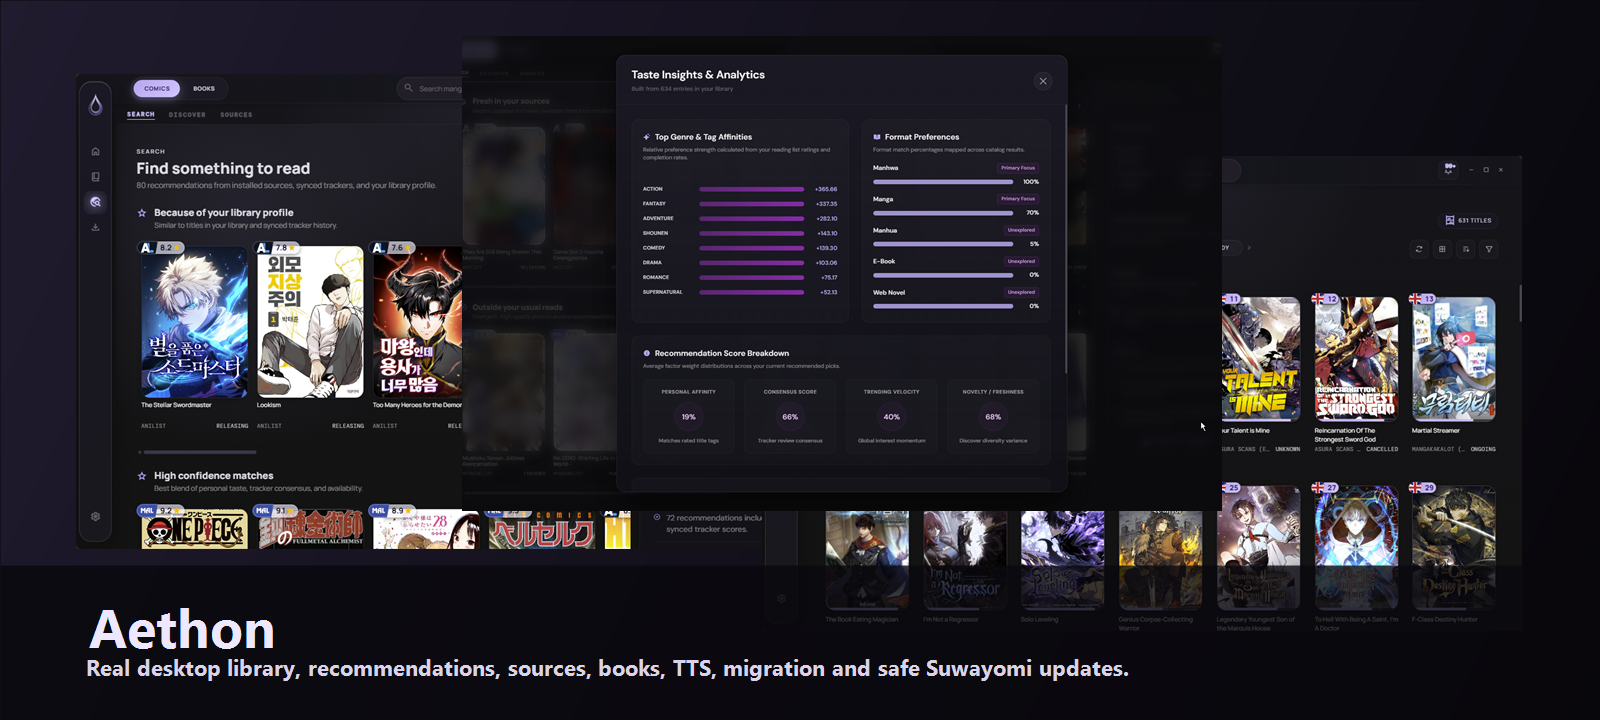
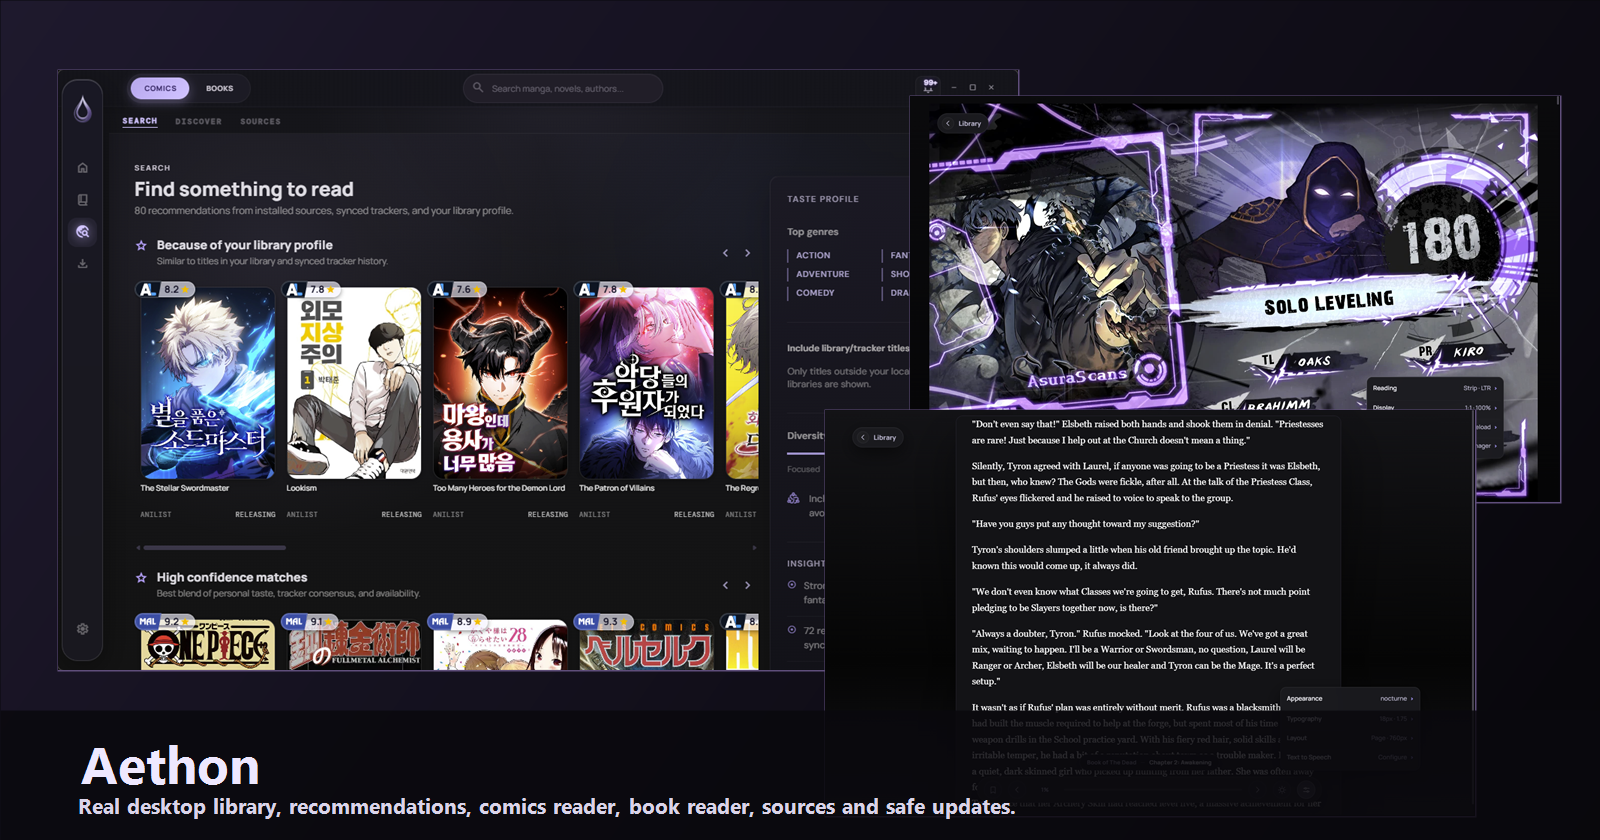
docs: fix aethon repository media

diff --git a/README.md b/README.md
@@ -24,6 +24,13 @@ Aethon is a native desktop app for comics, manga, novels, and local books. It co
   <img src="docs/assets/aethon-preview-grid.png" alt="Aethon screen preview grid" />
 </p>
 
+### Readers
+
+<p align="center">
+  <img src="docs/screenshots/aethon-ComicReader.png" alt="Aethon comic reader with HUD" width="49%" />
+  <img src="docs/screenshots/aethon-BookReader.png" alt="Aethon book reader with HUD" width="49%" />
+</p>
+
 More real screenshots are available in [docs/screenshots](docs/screenshots).
 
 ## Current Features
